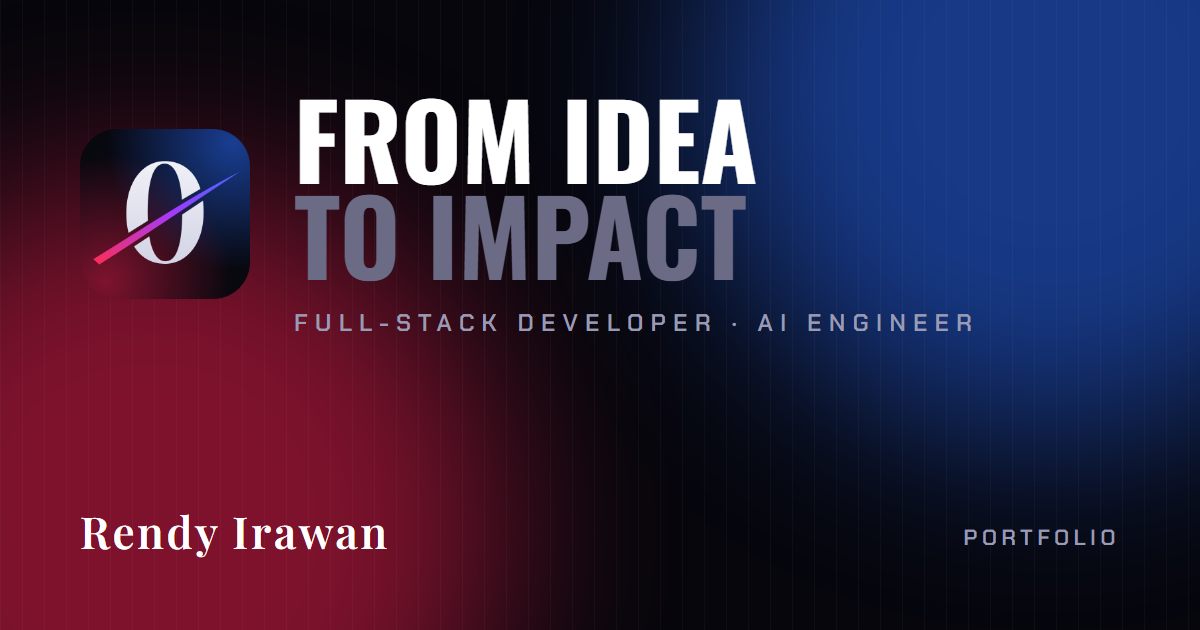
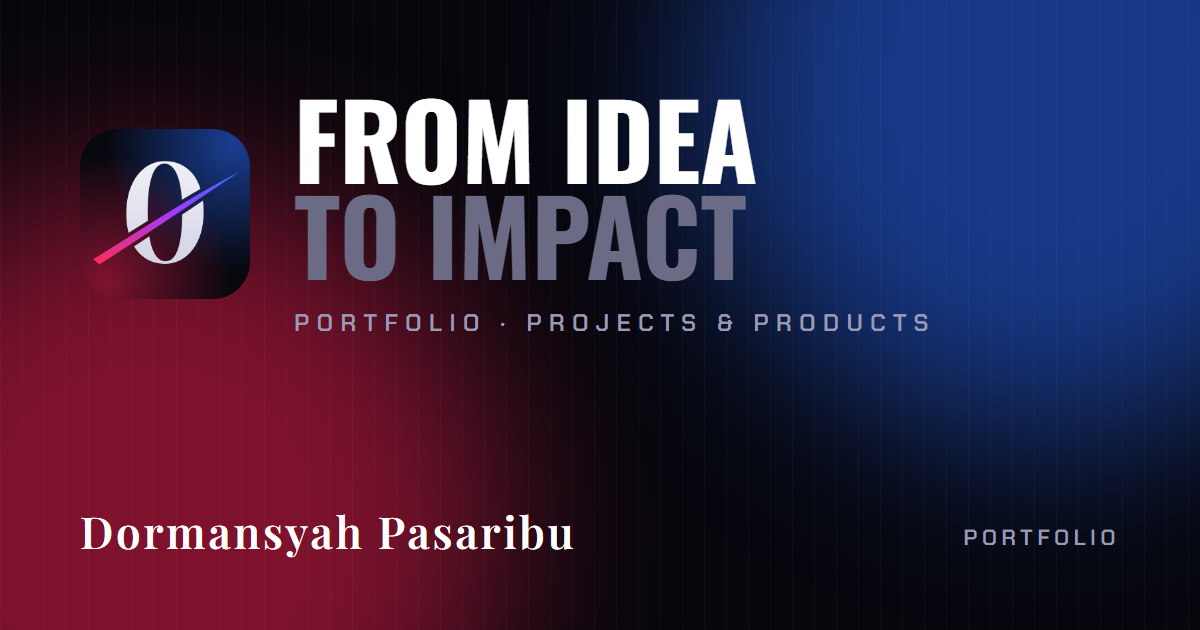
SEO and app name: Dormansyah Pasaribu
Meta title/description/keywords/author, Open Graph site name, structured
data, web manifest, share image and APP_NAME. Visible site content is
unchanged.

Changed region(s): [[0.2467, 0.4825, 0.8017, 0.5429], [0.0617, 0.8143, 0.4933, 0.8746]]

diff --git a/resources/views/frontend/partials/seo.blade.php b/resources/views/frontend/partials/seo.blade.php
@@ -6,7 +6,7 @@
 @php
     use App\Support\Portfolio\Media;
     $pageTitle = trim($__env->yieldContent('title'));
-    $title = $pageTitle !== '' ? $pageTitle . ' | ' . ($content['about_name'] ?: $content['brand_name']) : $content['seo_title'];
+    $title = $pageTitle !== '' ? $pageTitle . ' | ' . $brand['name'] : $content['seo_title'];
     $description = \Illuminate\Support\Str::limit(trim($__env->yieldContent('meta_description')) ?: (string) $content['seo_description'], 160, '…');
     $ogImage = trim($__env->yieldContent('og_image'))
         ?: Media::url($content['seo_og_image'] ?: ($content['hero_image'] ?: null), 'assets/media/branding/og-image.png');
@@ -19,7 +19,7 @@
 <title>{{ $title }}</title>
 <meta name="description" content="{{ $description }}">
 <meta name="keywords" content="{{ $content['seo_keywords'] }}">
-<meta name="author" content="{{ $content['about_name'] }}">
+<meta name="author" content="{{ $brand['author'] }}">
 <meta name="robots" content="{{ $content['seo_robots'] ?: 'index, follow' }}, max-image-preview:large">
 <meta name="theme-color" content="{{ $content['seo_theme_color'] ?: '#07070d' }}">
 <meta name="color-scheme" content="dark">
@@ -31,7 +31,7 @@
 
 <meta property="og:type" content="{{ trim($__env->yieldContent('og_type')) ?: 'website' }}">
 <meta property="og:locale" content="id_ID">
-<meta property="og:site_name" content="{{ $content['brand_name'] }}">
+<meta property="og:site_name" content="{{ $brand['name'] }}">
 <meta property="og:title" content="{{ $title }}">
 <meta property="og:description" content="{{ $description }}">
 <meta property="og:url" content="{{ $canonical }}">
@@ -55,14 +55,14 @@
             '@type' => 'WebSite',
             '@id' => url('/') . '#website',
             'url' => url('/'),
-            'name' => $content['brand_name'],
+            'name' => $brand['name'],
             'description' => $content['seo_description'],
             'inLanguage' => 'id-ID',
         ],
         array_filter([
             '@type' => 'Person',
             '@id' => url('/') . '#person',
-            'name' => $content['about_name'],
+            'name' => $brand['author'],
             'jobTitle' => $content['about_role'],
             'description' => $content['about_bio'],
             'url' => url('/'),

diff --git a/app/Support/Brand.php b/app/Support/Brand.php
@@ -32,7 +32,7 @@ class Brand
     public static function compute(): array
     {
         $settings = self::settings();
-        $name = self::clean($settings['site_name'] ?? null) ?: config('app.name', 'Rendy Irawan');
+        $name = self::clean($settings['site_name'] ?? null) ?: config('app.name', 'Dormansyah Pasaribu');
 
         return [
             'name' => $name,
@@ -41,7 +41,7 @@ class Brand
             'description' => self::clean($settings['site_description'] ?? null)
                 ?: $name . ' — panel administrasi modern untuk mengelola pengguna, hak akses, dan operasional aplikasi.',
             'keywords' => self::clean($settings['site_keywords'] ?? null) ?: Str::lower($name) . ', admin panel, dashboard',
-            'author' => self::clean($settings['site_author'] ?? null) ?: 'Rendy Irawan',
+            'author' => self::clean($settings['site_author'] ?? null) ?: 'Dormansyah Pasaribu',
             'robots' => self::clean($settings['seo_robots'] ?? null) ?: 'noindex, nofollow',
             'twitter' => self::clean($settings['seo_twitter_handle'] ?? null),
             'google_verification' => self::clean($settings['seo_google_verification'] ?? null),
@@ -55,7 +55,7 @@ class Brand
             'manifest_url' => self::publicUrl('assets/media/branding/site.webmanifest'),
             'og_image_url' => self::assetUrl($settings['site_og_image'] ?? null, 'assets/media/branding/og-image.png'),
 
-            'owner' => self::clean($settings['footer_owner'] ?? null) ?: 'Rendy Irawan',
+            'owner' => self::clean($settings['footer_owner'] ?? null) ?: 'Dormansyah Pasaribu',
             'github' => self::url($settings['footer_github'] ?? null) ?: 'https://github.com/rendyirawann',
             'linkedin' => self::url($settings['footer_linkedin'] ?? null) ?: 'https://linkedin.com/in/rendyirawann',
             'font' => self::clean($settings['site_font'] ?? null) ?: 'Plus Jakarta Sans',

diff --git a/app/Support/Portfolio/ContentSchema.php b/app/Support/Portfolio/ContentSchema.php
@@ -130,9 +130,9 @@ class ContentSchema
                 'label' => 'SEO',
                 'icon' => 'ki-search-list',
                 'fields' => [
-                    'seo_title' => ['Meta title', 'text', 'Rendy Irawan — Full-Stack Developer & AI Engineer Portfolio'],
-                    'seo_description' => ['Meta description (maks 160 karakter)', 'textarea', 'Portfolio Rendy Irawan: full-stack developer & AI engineer. Lihat project, produk, dan layanan pembuatan website serta aplikasi yang cepat dan aman.'],
-                    'seo_keywords' => ['Keywords', 'text', 'portfolio, full-stack developer, web developer, laravel, AI engineer, jasa pembuatan website'],
+                    'seo_title' => ['Meta title', 'text', 'Dormansyah Pasaribu — Portfolio'],
+                    'seo_description' => ['Meta description (maks 160 karakter)', 'textarea', 'Portfolio Dormansyah Pasaribu: lihat project, produk, pengalaman, dan layanan yang pernah dikerjakan.'],
+                    'seo_keywords' => ['Keywords', 'text', 'dormansyah pasaribu, portfolio, project manager, project, produk'],
                     'seo_og_image' => ['Gambar share (1200×630)', 'image', null],
                     'seo_robots' => ['Robots', 'select', 'index, follow', ['index, follow', 'noindex, nofollow', 'index, nofollow', 'noindex, follow']],
                     'seo_theme_color' => ['Warna tema browser', 'color', '#07070d'],

diff --git a/database/migrations/2026_09_10_000100_add_seo_and_branding_settings.php b/database/migrations/2026_09_10_000100_add_seo_and_branding_settings.php
@@ -11,14 +11,14 @@ return new class extends Migration
      */
     private function defaults(): array
     {
-        $appName = config('app.name', 'Rendy Irawan');
+        $appName = config('app.name', 'Dormansyah Pasaribu');
 
         return [
             'site_short_name' => \Illuminate\Support\Str::limit($appName, 12, ''),
             'site_tagline' => 'Portfolio Control Center',
             'site_description' => $appName . ' — panel administrasi modern untuk mengelola pengguna, hak akses, dan operasional aplikasi Anda.',
             'site_keywords' => strtolower($appName) . ', admin panel, dashboard, manajemen pengguna, laravel',
-            'site_author' => 'Rendy Irawan',
+            'site_author' => 'Dormansyah Pasaribu',
             'site_favicon' => 'assets/media/branding/favicon.ico',
             'site_og_image' => 'assets/media/branding/og-image.png',
             'site_theme_color' => '#4f46e5',
@@ -27,7 +27,7 @@ return new class extends Migration
             'seo_google_verification' => '',
             // Self-service registration is off by default on an admin panel.
             'allow_registration' => '0',
-            'footer_owner' => 'Rendy Irawan',
+            'footer_owner' => 'Dormansyah Pasaribu',
             'footer_github' => 'https://github.com/rendyirawann',
             'footer_linkedin' => 'https://linkedin.com/in/rendyirawann',
         ];

diff --git a/resources/views/backend/settings/index.blade.php b/resources/views/backend/settings/index.blade.php
@@ -76,7 +76,7 @@
                                 <div class="mb-6">
                                     <label class="form-label fw-semibold" for="site_name">Nama Aplikasi <span class="text-danger">*</span></label>
                                     <input type="text" class="form-control form-control-solid" id="site_name"
-                                        name="site_name" value="{{ $value('site_name', 'Rendy Irawan') }}" required
+                                        name="site_name" value="{{ $value('site_name', 'Dormansyah Pasaribu') }}" required
                                         maxlength="60" />
                                     <div class="form-text">Dipakai di judul halaman, navbar, footer, dan meta tag.</div>
                                 </div>

diff --git a/database/migrations/2026_05_06_040000_create_settings_table.php b/database/migrations/2026_05_06_040000_create_settings_table.php
@@ -19,7 +19,7 @@ return new class extends Migration
         // Seed default settings
         $defaults = [
             ['key' => 'site_logo', 'value' => 'base-logo.png'],
-            ['key' => 'site_name', 'value' => 'Rendy Irawan'],
+            ['key' => 'site_name', 'value' => 'Dormansyah Pasaribu'],
             ['key' => 'site_font', 'value' => 'Plus Jakarta Sans'],
 
             ['key' => 'social_google_enabled', 'value' => '0'],
